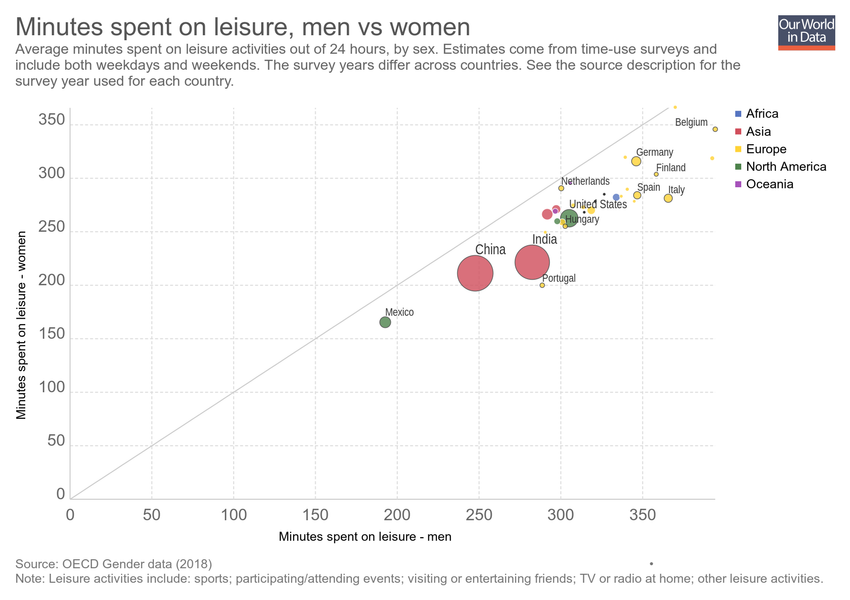
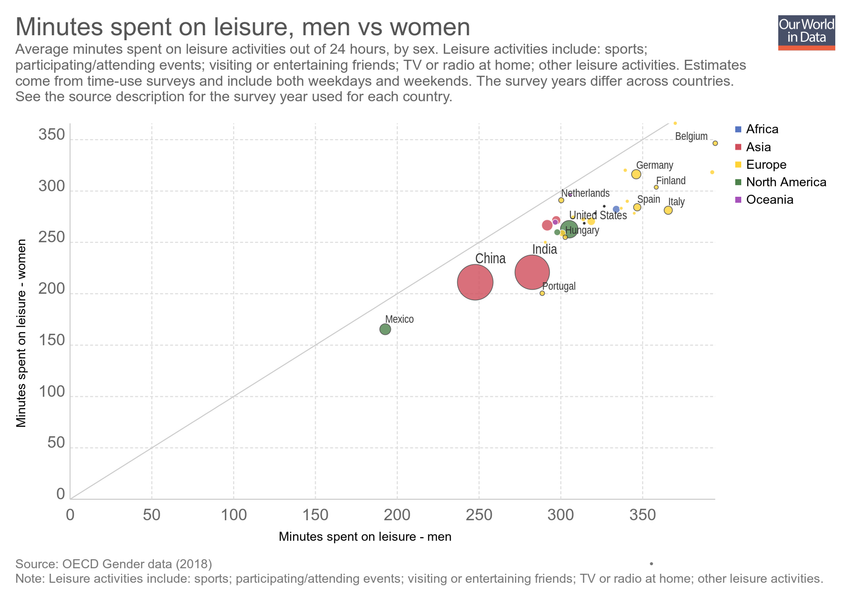
Updating chart minutes-spent-on-leisure

diff --git a/grapher/minutes-spent-on-leisure.html b/grapher/minutes-spent-on-leisure.html
@@ -1,4 +1,4 @@
-<!doctype html><html><head><meta name="viewport" content="width=device-width, initial-scale=1" /><title>Minutes spent on leisure, men vs women - Our World in Data</title><meta name="description" content="Average minutes spent on leisure activities out of 24 hours, by sex. Estimates come from time-use surveys and include both weekdays and weekends. The survey years differ across countries. See the source description for the survey year used for each country." /><link rel="canonical" href="https://ourworldindata.org/grapher/minutes-spent-on-leisure" /><meta property="fb:app_id" content="1149943818390250" /><meta property="og:url" content="https://ourworldindata.org/grapher/minutes-spent-on-leisure" /><meta property="og:title" content="Minutes spent on leisure, men vs women" /><meta property="og:description" content="Average minutes spent on leisure activities out of 24 hours, by sex. Estimates come from time-use surveys and include both weekdays and weekends. The survey years differ across countries. See the source description for the survey year used for each country." /><meta property="og:image" content="https://ourworldindata.org/grapher/exports/minutes-spent-on-leisure.png?v=6" /><meta property="og:image:width" content="850" /><meta property="og:image:height" content="600" /><meta property="og:site_name" content="Our World in Data" /><meta name="twitter:card" content="summary_large_image" /><meta name="twitter:site" content="@OurWorldInData" /><meta name="twitter:creator" content="@OurWorldInData" /><meta name="twitter:title" content="Minutes spent on leisure, men vs women" /><meta name="twitter:description" content="Average minutes spent on leisure activities out of 24 hours, by sex. Estimates come from time-use surveys and include both weekdays and weekends. The survey years differ across countries. See the source description for the survey year used for each country." /><meta name="twitter:image" content="https://ourworldindata.org/grapher/exports/minutes-spent-on-leisure.png?v=6" /><style>
+<!doctype html><html><head><meta name="viewport" content="width=device-width, initial-scale=1" /><title>Minutes spent on leisure, men vs women - Our World in Data</title><meta name="description" content="Average minutes spent on leisure activities out of 24 hours, by sex. Leisure activities include: sports; participating/attending events; visiting or entertaining friends; TV or radio at home; other leisure activities. Estimates come from time-use surveys and include both weekdays and weekends. The survey years differ across countries. See the source description for the survey year used for each country." /><link rel="canonical" href="https://ourworldindata.org/grapher/minutes-spent-on-leisure" /><meta property="fb:app_id" content="1149943818390250" /><meta property="og:url" content="https://ourworldindata.org/grapher/minutes-spent-on-leisure" /><meta property="og:title" content="Minutes spent on leisure, men vs women" /><meta property="og:description" content="Average minutes spent on leisure activities out of 24 hours, by sex. Leisure activities include: sports; participating/attending events; visiting or entertaining friends; TV or radio at home; other leisure activities. Estimates come from time-use surveys and include both weekdays and weekends. The survey years differ across countries. See the source description for the survey year used for each country." /><meta property="og:image" content="https://ourworldindata.org/grapher/exports/minutes-spent-on-leisure.png?v=7" /><meta property="og:image:width" content="850" /><meta property="og:image:height" content="600" /><meta property="og:site_name" content="Our World in Data" /><meta name="twitter:card" content="summary_large_image" /><meta name="twitter:site" content="@OurWorldInData" /><meta name="twitter:creator" content="@OurWorldInData" /><meta name="twitter:title" content="Minutes spent on leisure, men vs women" /><meta name="twitter:description" content="Average minutes spent on leisure activities out of 24 hours, by sex. Leisure activities include: sports; participating/attending events; visiting or entertaining friends; TV or radio at home; other leisure activities. Estimates come from time-use surveys and include both weekdays and weekends. The survey years differ across countries. See the source description for the survey year used for each country." /><meta name="twitter:image" content="https://ourworldindata.org/grapher/exports/minutes-spent-on-leisure.png?v=7" /><style>
         html, body {
             height: 100%;
             margin: 0;
@@ -20,8 +20,8 @@
         }
     </style><noscript><style>
                     figure { display: none !important; }
-                </style></noscript><link rel="stylesheet" href="https://ourworldindata.org/grapher/assets/commons.bundle.dcbbe53805c487d5e57617b10ac73a8a.css" /><link rel="preload" href="/grapher/data/variables/96620+96615+72+123.json?v=6" as="fetch" crossorigin /></head><body class="singleChart"><figure data-grapher-src="/grapher/minutes-spent-on-leisure"></figure><noscript id="fallback"><img src="/grapher/exports/minutes-spent-on-leisure.svg" /><p>Interactive visualization requires JavaScript</p></noscript><script src="https://cdn.polyfill.io/v2/polyfill.min.js?features=es6,fetch"></script><script src="https://ourworldindata.org/grapher/assets/commons.bundle.43d139222ef978d52c09.js"></script><script src="https://ourworldindata.org/grapher/assets/charts.bundle.43d139222ef978d52c09.js"></script><script>
-        var jsonConfig = {"id":2541,"map":{"projection":"World","colorSchemeLabels":[],"colorSchemeValues":[],"colorSchemeMinValue":0,"customNumericColors":[],"customCategoryColors":{},"customCategoryLabels":{},"customHiddenCategories":{}},"tab":"chart","note":"Leisure activities include: sports; participating/attending events; visiting or entertaining friends; TV or radio at home; other leisure activities.","slug":"minutes-spent-on-leisure","type":"ScatterPlot","title":"Minutes spent on leisure, men vs women","xAxis":{"min":0,"scaleType":"linear"},"yAxis":{"min":0,"scaleType":"linear"},"version":6,"subtitle":"Average minutes spent on leisure activities out of 24 hours, by sex. Estimates come from time-use surveys and include both weekdays and weekends. The survey years differ across countries. See the source description for the survey year used for each country.","hasMapTab":false,"stackMode":"absolute","dimensions":[{"display":{"name":"Minutes spent on leisure - women"},"property":"y","variableId":96620},{"display":{"name":"Minutes spent on leisure - men"},"property":"x","variableId":96615},{"display":{},"property":"size","variableId":72},{"display":{},"property":"color","variableId":123}],"hasChartTab":true,"isPublished":true,"selectedData":[],"comparisonLine":{},"hideTitleAnnotation":true};
+                </style></noscript><link rel="stylesheet" href="https://ourworldindata.org/grapher/assets/commons.bundle.dcbbe53805c487d5e57617b10ac73a8a.css" /><link rel="preload" href="/grapher/data/variables/96620+96615+72+123.json?v=7" as="fetch" crossorigin /></head><body class="singleChart"><figure data-grapher-src="/grapher/minutes-spent-on-leisure"></figure><noscript id="fallback"><img src="/grapher/exports/minutes-spent-on-leisure.svg" /><p>Interactive visualization requires JavaScript</p></noscript><script src="https://cdn.polyfill.io/v2/polyfill.min.js?features=es6,fetch"></script><script src="https://ourworldindata.org/grapher/assets/commons.bundle.43d139222ef978d52c09.js"></script><script src="https://ourworldindata.org/grapher/assets/charts.bundle.43d139222ef978d52c09.js"></script><script>
+        var jsonConfig = {"id":2541,"map":{"projection":"World","colorSchemeLabels":[],"colorSchemeValues":[],"colorSchemeMinValue":0,"customNumericColors":[],"customCategoryColors":{},"customCategoryLabels":{},"customHiddenCategories":{}},"tab":"chart","note":"Leisure activities include: sports; participating/attending events; visiting or entertaining friends; TV or radio at home; other leisure activities.","slug":"minutes-spent-on-leisure","type":"ScatterPlot","title":"Minutes spent on leisure, men vs women","xAxis":{"min":0,"scaleType":"linear"},"yAxis":{"min":0,"scaleType":"linear"},"version":7,"subtitle":"Average minutes spent on leisure activities out of 24 hours, by sex. Leisure activities include: sports; participating/attending events; visiting or entertaining friends; TV or radio at home; other leisure activities. Estimates come from time-use surveys and include both weekdays and weekends. The survey years differ across countries. See the source description for the survey year used for each country.","hasMapTab":false,"stackMode":"absolute","dimensions":[{"display":{"name":"Minutes spent on leisure - women"},"property":"y","variableId":96620},{"display":{"name":"Minutes spent on leisure - men"},"property":"x","variableId":96615},{"display":{},"property":"size","variableId":72},{"display":{},"property":"color","variableId":123}],"hasChartTab":true,"isPublished":true,"selectedData":[],"comparisonLine":{},"hideTitleAnnotation":true};
         var figure = document.getElementsByTagName("figure")[0];
         try {
             window.App = {};
